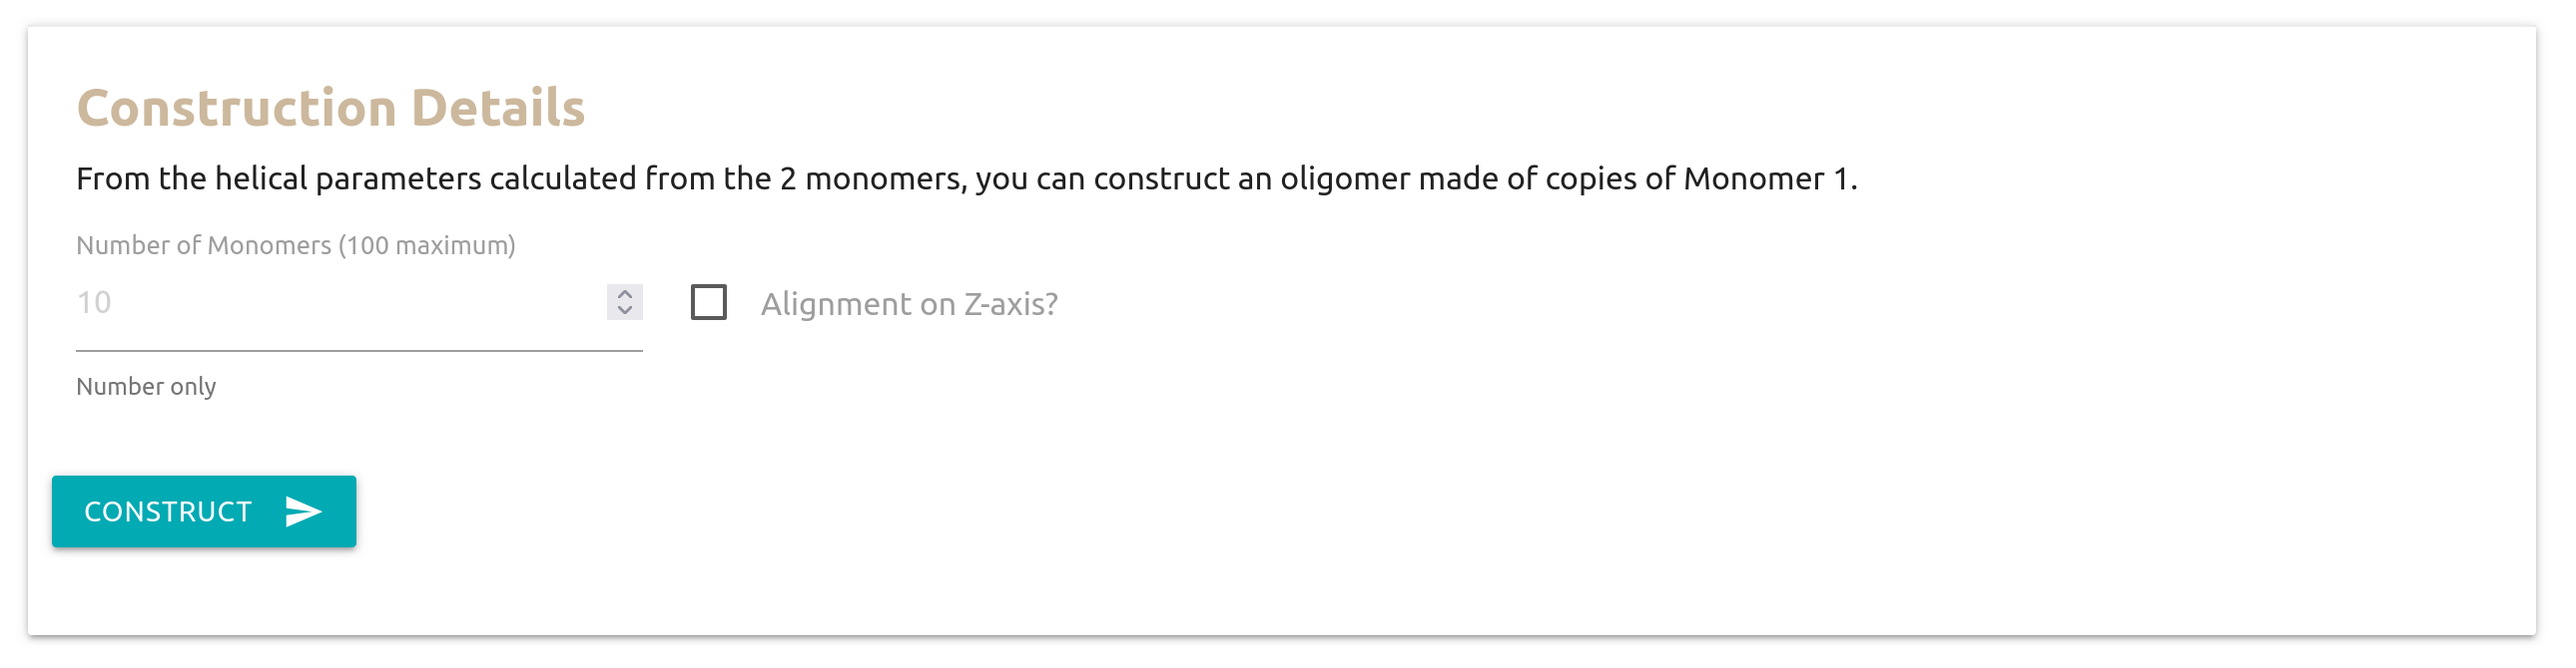
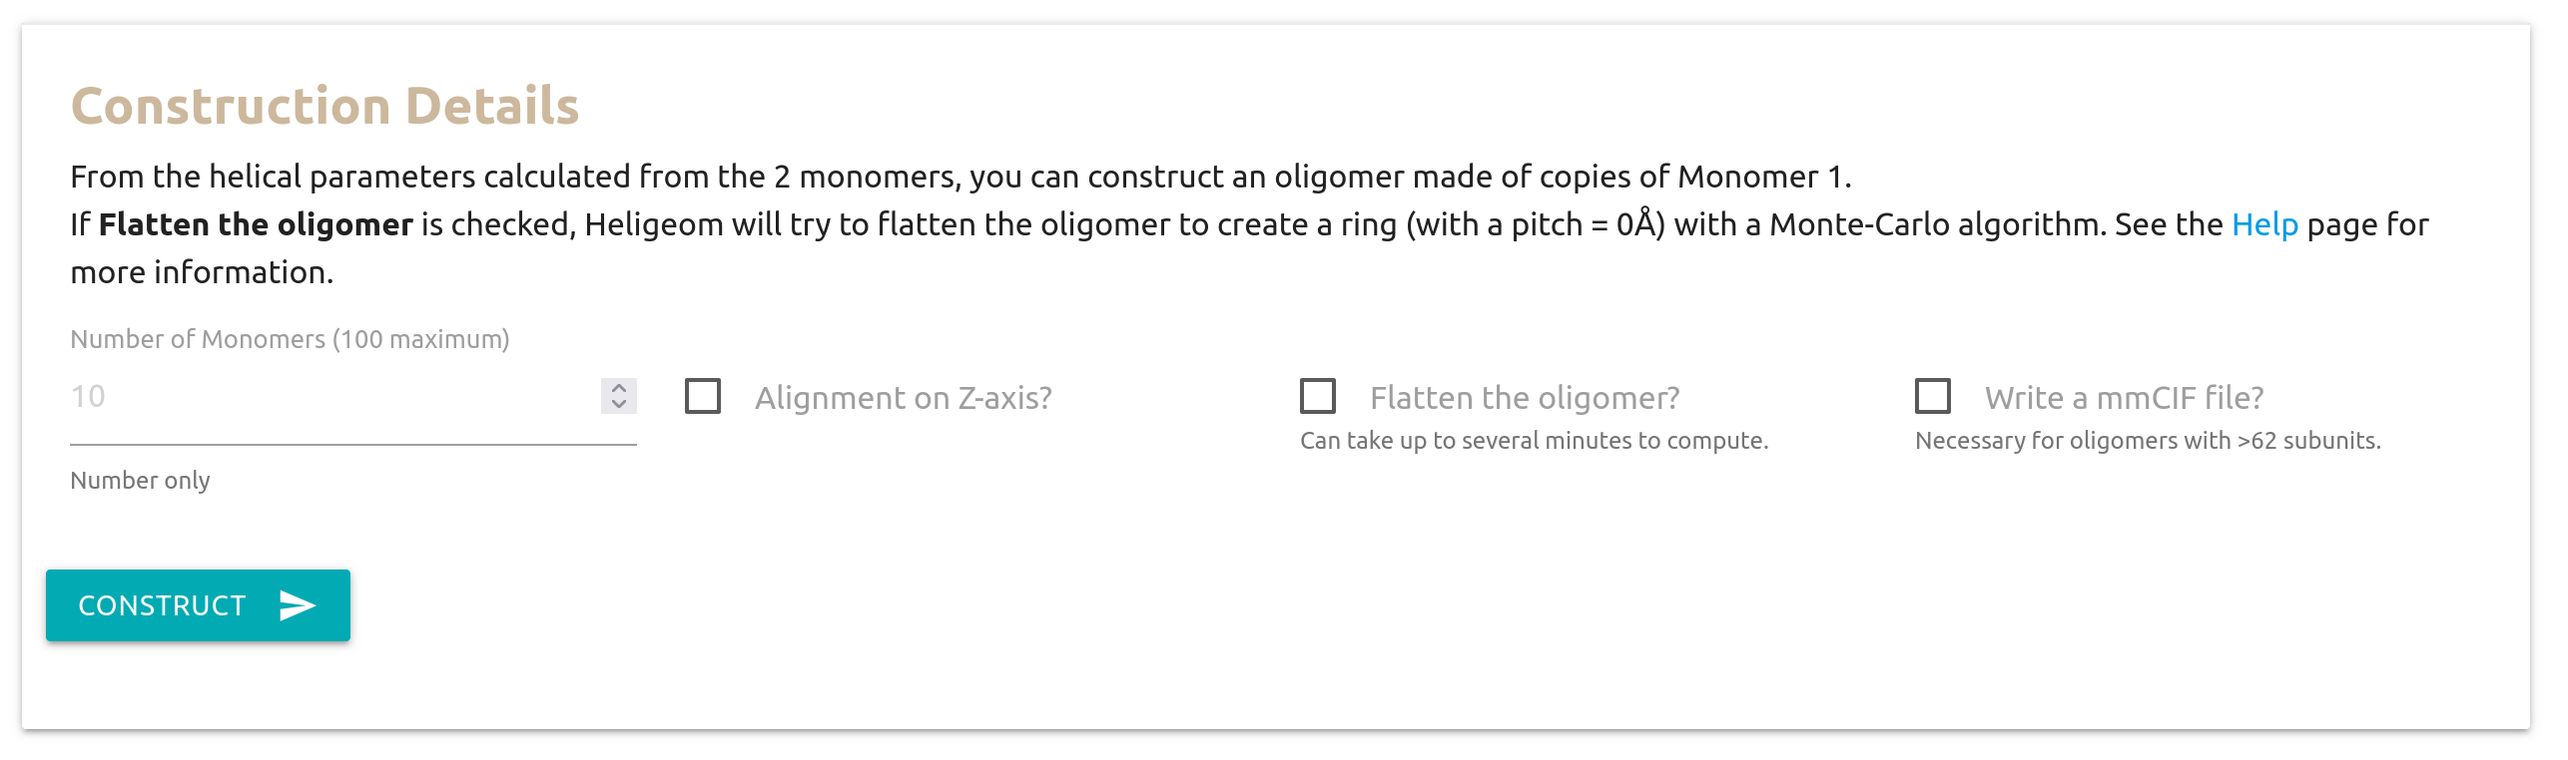
Update help page with recent changes

diff --git a/heligeom/templates/help.html b/heligeom/templates/help.html
@@ -51,6 +51,7 @@
               <li>select a PDB id taken from <a href="https://www.rcsb.org/">https://www.rcsb.org/</a></li>
             </ul>
             From this input PDB, in the <span style="color: #ed7d31">Selection</span> section, you'll need to define the 2 monomers whose the interface and the Screw parameters will be computed from.<br />
+            <b>Note: A first <i>cleaning</i> step is performed where all HETERO and water atoms are discarded from the input PDB.</b><br />
             For each monomer you can specify either the chain, the residue range or both.<br />
             <b><i class="tiny material-icons valign">priority_high</i>Only the Carbon-α of the monomers will be used for the Helical parameters computation. Both monomers needs to have the same number.</b><i class="tiny material-icons valign">priority_high</i>
           </p>
@@ -67,6 +68,14 @@
               <li>if only the chain is provided: only missing residues inside the chain are handled.</li>
               <li>if the residue range is provided: missing residues at the begining or at the end are also handled assuming the residue range is filled with the same gap for both monomers (i.e <i>1-300</i> and <i>301-600</i>).
             </ul>
+          </p>
+
+
+          <h6 class="header">Non protein atoms</h6>
+
+          <p>
+            As stated above, all HETERO and waters atoms are discarded from the input before the selection process.<br />
+            If one want to keep non protein atoms for the construction, we suggest to rename those atoms line from  HETERO to ATOMS. They will not be used for the Screw calculation because only Carbon-α of monomers are handled.
           </p>
 
         </div>
@@ -157,9 +166,9 @@
             <b>RMSD:</b> The RMSD value of the superposition between the Carbon-α of the 2 monomers is displayed.<br />
             Heligeom provides an hint with a color depending of the value:
             <ul class="browser-default">
-              <li><span class="green-text text-darken-3">RMSD <= 2&#8491;:</span>TODO</li>
-              <li><span class="red-text text-accent-1"">2 < RMSD <= 5&#8491;:</span>TODO</li>
-              <li><span class="red-text">RMSD > 5&#8491;:</span>TODO</li>
+              <li><span class="green-text text-darken-3">RMSD <= 2&#8491;: </span>The RMSD of the superposition is acceptable.</li>
+              <li><span class="red-text text-accent-1"">2 < RMSD <= 5&#8491;: </span>The construction of the oligomer could be incorrect.</li>
+              <li><span class="red-text">RMSD > 5&#8491;: </span>The construction of the oligomer will lead to incorrect results.</li>
             </ul>
           </p>
         </div>
@@ -173,11 +182,19 @@
             Once the helical parameters are computed, <b>Heligeom</b> can construct an oligomer based on those.<br />
             The protocol is
             <ul class="browser-default">
-             <li>to take the entire Monomer 1 selection (not only the <i>core regions</i>)</li>
+             <li>take the entire Monomer 1 selection (not only the <i>core regions</i>), even non proteins atoms if they are part of the selection.</li>
              <li>create copies of this monomers based on the screw parameters</li>
              <li>repeat the above step to match the number of monomers given by the form.</li>
             </ul>
-            There is also the option to align the oligomer to the Z-axis by checking the corresponding checkbox.
+            <b>Alignment on Z-axis?: </b>This option enable the alignment the oligomer to the Z-axis.<br />
+            <b>Write a mmCIF file?: </b>This option creates, for the oligomer, a mmCIF file instead of a PDB one. This is useful for construction with more than 62 chains.<br />
+            <h6 id="flatten"><b>Flatten the oligomer?</b></h6>
+            <div>
+              There is also the option to flatten the oligomer by checking the corresponding checkbox.<br>
+              The method is described in the <a href="{{ url_for('heligeom_bp.about', _anchor='flatten') }}">about page</a>.<br>
+              <b>This computation can take up to several minutes due to the Monte-Carlo algorithm.</b><br>
+              Once finished, below the visualisation section, Heligeom displays some parameters resulted from the algorithm.
+            </div>
           </p>
           <br >
           <br >
@@ -191,13 +208,6 @@
             You can download the PDB file of the oligomer with the orange button.<br>
           </p>
 
-          <h6><b>Flatten the oligomer?</b></h6>
-          <div>
-            There is also the option to flatten the oligomer by checking the corresponding checkbox.<br>
-            The method is described in the <a href="{{ url_for('heligeom_bp.about', _anchor='flatten') }}">about page</a>.<br>
-            <b>This computation can take up to several minutes due to the Monte-Carlo algorithm.</b><br>
-            Once finished, below the visualisation section, Heligeom displays some parameters resulted from the algorithm.
-          </div>
         </div>
       </div>
 
